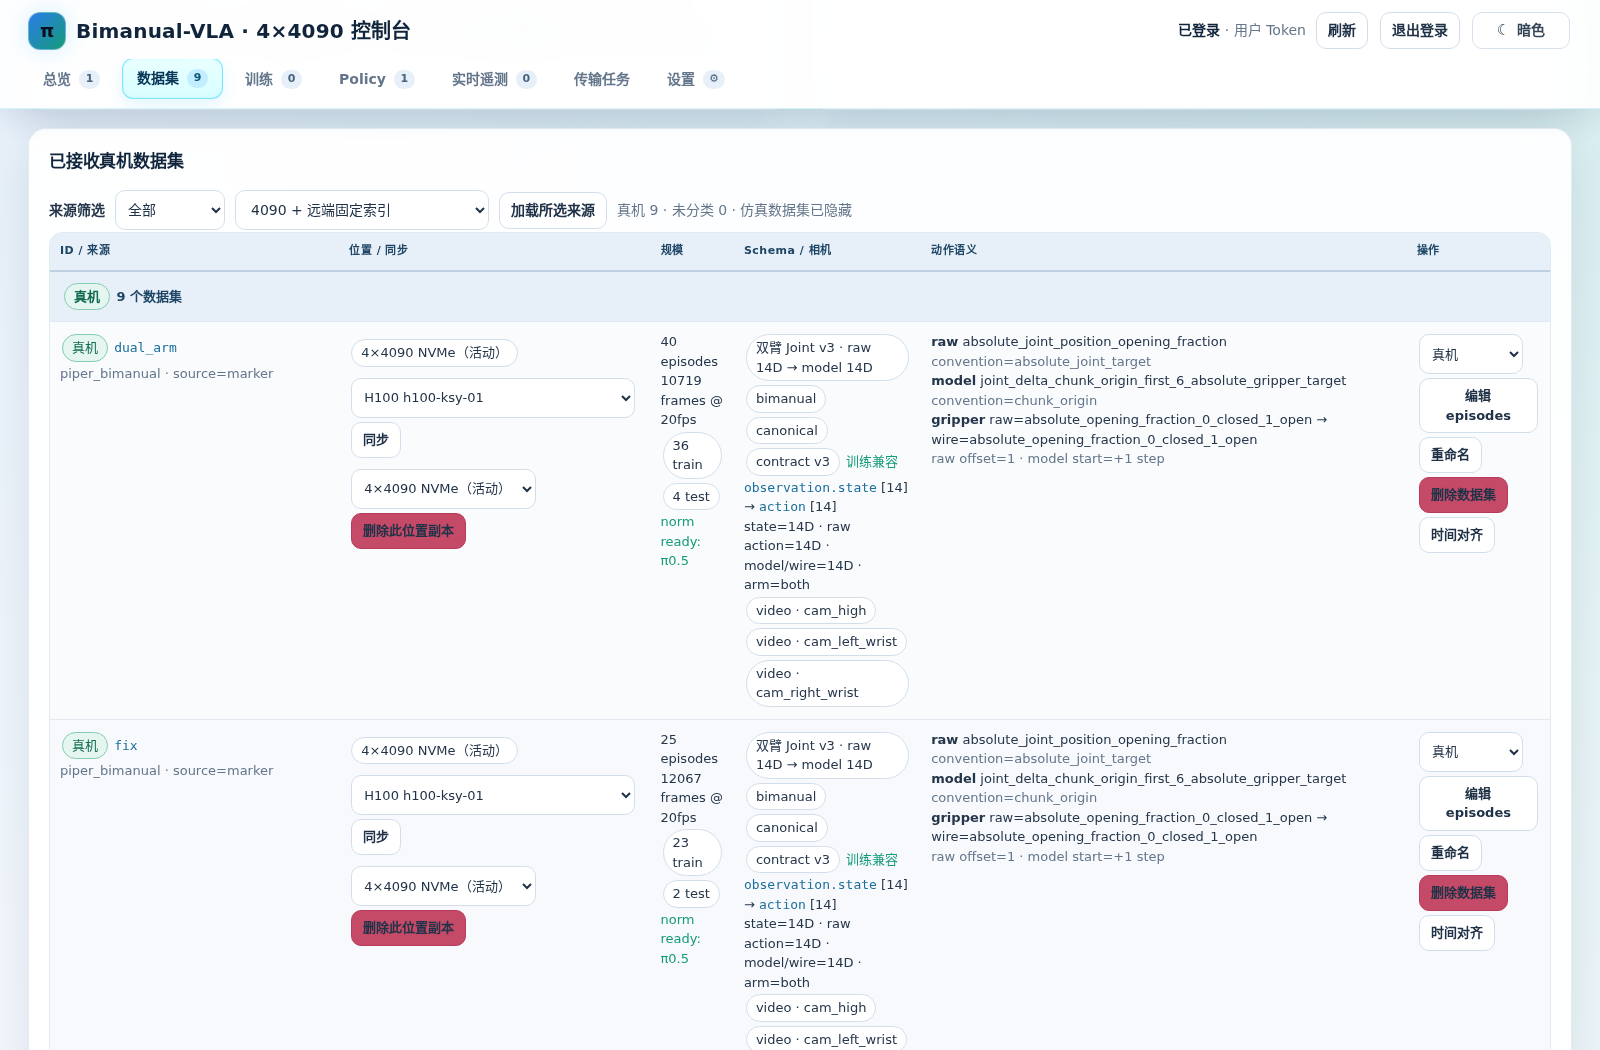
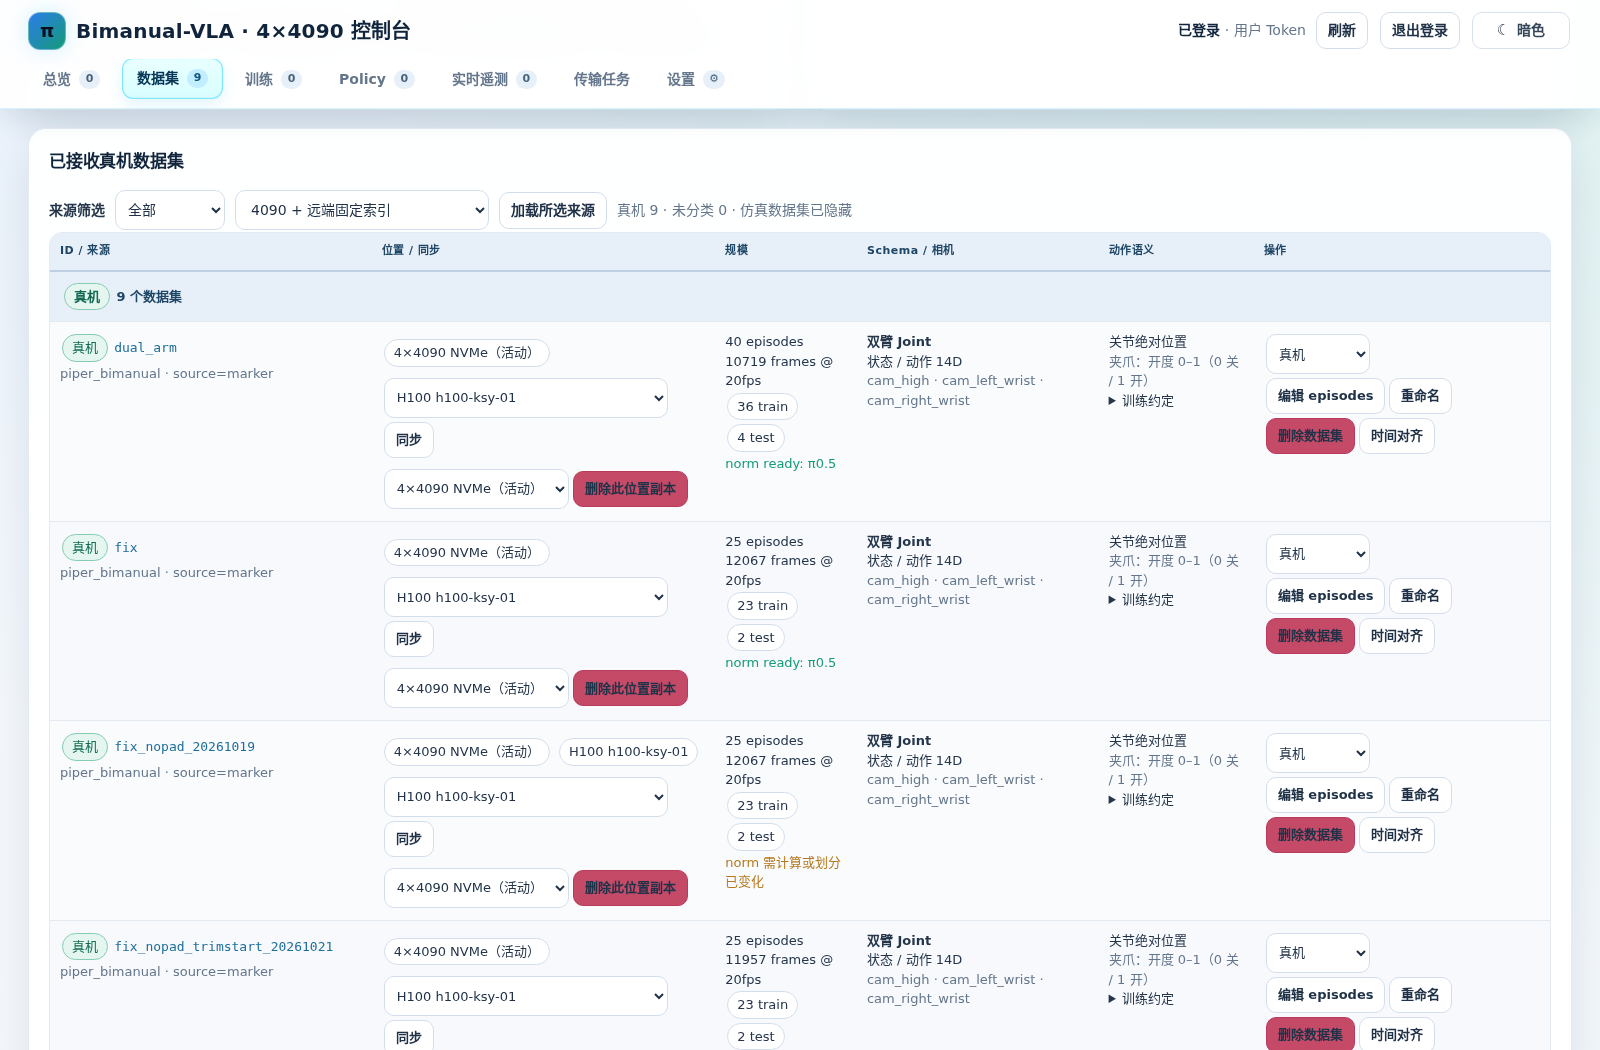
Simplify dataset schema and action summaries in Dashboard
Show dataset state/action dimensions once, keep legacy and validation warnings visible, and move model conversion details into the training disclosure. EEF datasets remain 20D; existing checkpoint model actions remain 14D. Refresh screenshots from the live Dashboard.

diff --git a/server_4090/templates/index.html b/server_4090/templates/index.html
@@ -2207,6 +2207,56 @@ async function syncDatasetTo(datasetId, selectId, source) {
   }
 }
 
+function datasetSchemaLabel(d) {
+  const arm = d.arm_mode === 'bimanual' ? '双臂' : d.arm_mode === 'single' ? (d.arm_side === 'left' ? '左臂' : '右臂') : '';
+  const schema = d.schema === 'delivery' ? 'EEF' : d.schema === 'joint' ? 'Joint' : (d.schema || '未知格式');
+  return `${arm} ${schema}`.trim();
+}
+
+function datasetSchemaCell(d) {
+  const state = d.state_dim ?? d.state_shape?.at(-1);
+  const action = d.raw_action_dim ?? d.action_shape?.at(-1);
+  const dimensions = state != null && state === action ? `状态 / 动作 ${state}D` : `状态 ${state ?? '?'}D · 动作 ${action ?? '?'}D`;
+  const warnings = [];
+  if (d.contract_version != null && Number(d.contract_version) !== 3) warnings.push(`旧版 v${d.contract_version}`);
+  if (d.dataset_layout && d.dataset_layout !== 'canonical') warnings.push(d.dataset_layout === 'legacy' ? '旧字段布局' : '未知字段布局');
+  if (!d.training_supported) warnings.push('仅管理 / 预览');
+  const errors = [...new Set([d.contract_error, d.training_error].filter(Boolean))];
+  const cameras = (d.media || []).map(m => esc(cameraDisplayName(m.key, d.arm_side))).join(' · ');
+  return `<strong>${esc(datasetSchemaLabel(d))}</strong><br>${esc(dimensions)}${warnings.length ? `<br><span class="warn">${warnings.map(esc).join(' · ')}</span>` : ''}${errors.map(error => `<br><span class="bad">${esc(error)}</span>`).join('')}<br><span class="muted">${cameras || '无相机媒体'}</span>`;
+}
+
+function datasetActionLabel(d, model = false) {
+  const convention = model ? d.model_action_convention : d.raw_action_convention;
+  if (convention === 'absolute_eef_target') return '末端绝对位姿';
+  if (convention === 'absolute' || convention === 'absolute_joint' || convention === 'absolute_joint_position' || convention === 'absolute_joint_target') return '关节绝对位置';
+  if (convention === 'chunk_origin') return d.schema === 'joint' ? '相对观测帧的关节增量' : '相对观测帧的位姿增量';
+  if (convention === 'step') return '逐步位姿增量';
+  return (model ? d.model_action_semantics : d.raw_action_semantics) || '未标注';
+}
+
+function datasetGripperLabel(value) {
+  if (value === 'absolute_opening_fraction_0_closed_1_open') return '开度 0–1（0 关 / 1 开）';
+  if (value === 'absolute_closed_fraction_0_open_1_closed') return '闭合度 0–1（0 开 / 1 关）';
+  if (['absolute_opening_m', 'absolute_opening_metres', 'opening_m'].includes(value)) return '开度（米）';
+  return value || '未标注';
+}
+
+function datasetActionCell(d) {
+  const rawGripper = datasetGripperLabel(d.raw_gripper_semantics);
+  const wireGripper = datasetGripperLabel(d.wire_gripper_semantics);
+  const rotationNote = d.schema === 'delivery' && !d.legacy_delivery_v2 && d.raw_action_dim !== d.model_action_dim
+    ? '<br>训练时每臂旋转由 6D 转为 3D 旋转向量。' : '';
+  return `${esc(datasetActionLabel(d))}<br><span class="muted">夹爪：${esc(rawGripper)}</span>
+    <details><summary>训练约定</summary>
+      <div class="muted">模型动作：${esc(d.model_action_dim ?? '?')}D · ${esc(datasetActionLabel(d, true))}${rotationNote}
+      ${rawGripper !== wireGripper ? `<br>模型夹爪：${esc(wireGripper)}` : ''}
+      <br>数据动作偏移：${esc(d.action_offset ?? '?')} · 模型首步：+${esc(d.model_action_start_offset ?? '?')}
+      <br>字段：${esc(d.state_key || '?')} → ${esc(d.action_key || '?')}
+      <br>数据约定 v${esc(d.contract_version ?? '?')} · ${esc(d.dataset_layout || 'unknown')}</div>
+    </details>`;
+}
+
 function fillDatasets(items) {
   items = dashboardDatasets(items);
   const filter = document.getElementById('datasetOriginFilter').value || 'all';
@@ -2231,8 +2281,8 @@ function fillDatasets(items) {
           <td>${datasetOriginBadge(d.dataset_origin)} <code>${esc(d.id)}</code><br><span class="muted">${esc(d.robot_type)} · source=${esc(d.dataset_origin_source || '-')}</span>${d.remote_only ? '<br><span class="warn">远端清单项，本地未安装</span>' : ''}</td>
           <td>${renderDatasetLocations(d)}</td>
           <td>${esc(d.episodes)} episodes<br>${esc(d.frames)} frames @ ${esc(d.fps)}fps<br>${d.train_episodes == null ? '<span class="muted">尚未生成 train/test 划分</span>' : `<span class="pill">${esc(d.train_episodes)} train</span> <span class="pill">${esc(d.test_episodes)} test</span>`}<br>${(d.norm_model_variants || []).length ? `<span class="ok">norm ready: ${esc((d.norm_model_variants || []).map(modelVariantLabel).join(', '))}</span>` : '<span class="warn">norm 需计算或划分已变化</span>'}</td>
-          <td><span class="pill">${esc(d.schema_label || d.schema)}</span> <span class="pill">${esc(d.arm_mode || '-')}</span> <span class="pill">${esc(d.dataset_layout || '-')}</span> <span class="pill">contract v${esc(d.contract_version || '?')}</span> ${d.training_supported ? '<span class="ok">训练兼容</span>' : '<span class="warn">仅管理 / 预览</span>'}<br><code>${esc(d.state_key || 'state?')}</code> ${esc(JSON.stringify(d.state_shape))} → <code>${esc(d.action_key || 'action?')}</code> ${esc(JSON.stringify(d.action_shape))}<br>state=${esc(d.state_dim || '?')}D · raw action=${esc(d.raw_action_dim || '?')}D · model/wire=${esc(d.model_action_dim || '?')}D · arm=${esc(d.arm_side || '-')}<br>${d.contract_error ? `<span class="bad">${esc(d.contract_error)}</span><br>` : ''}${d.training_error ? `<span class="warn">${esc(d.training_error)}</span><br>` : ''}${(d.media || []).map(m => `<span class="pill">${esc(m.type)} · ${esc(cameraDisplayName(m.key, d.arm_side))}</span>`).join(' ') || '<span class="muted">无相机媒体</span>'}</td>
-          <td><strong>raw</strong> ${esc(d.raw_action_semantics || '-')}<br><span class="muted">convention=${esc(d.raw_action_convention || '-')}</span><br><strong>model</strong> ${esc(d.model_action_semantics || '-')}<br><span class="muted">convention=${esc(d.model_action_convention || '-')}</span><br><strong>gripper</strong> raw=${esc(d.raw_gripper_semantics || '-')} → wire=${esc(d.wire_gripper_semantics || '-')}<br><span class="muted">raw offset=${d.action_offset == null ? '-' : esc(d.action_offset)} · model start=+${esc(d.model_action_start_offset ?? 1)} step</span></td>
+          <td>${datasetSchemaCell(d)}</td>
+          <td>${datasetActionCell(d)}</td>
           <td>${(d.remote_only || d.read_only) ? `<span class="muted">${d.remote_only ? '远端数据集：先同步到 4×4090 后可编辑。' : '外部读取目录数据集：只读；如需编辑请先同步到存储目录。'}</span>` : `<select class="dataset-origin-select" onchange="setDatasetOrigin('${esc(d.id)}', this.value)">${datasetOriginOptions(d.dataset_origin)}</select><br><button class="inline secondary" onclick="openDatasetEditor('${esc(d.id)}')">编辑 episodes</button><button class="inline secondary" onclick="renameDataset('${esc(d.id)}')">重命名</button><button class="inline danger" onclick="deleteDataset('${esc(d.id)}')">删除数据集</button>`}${!d.remote_only ? `<button class="inline secondary" onclick="openDatasetTiming('${esc(d.id)}')">时间对齐</button>` : ''}</td>
         </tr>`);
     }
@@ -2244,7 +2294,7 @@ function fillDatasets(items) {
   const trainable = items.filter(d => d.training_supported);
   document.querySelectorAll('.dataset-select').forEach(select => {
     const old = select.value;
-    select.innerHTML = trainable.map(d => `<option value="${esc(d.id)}">[${esc(datasetOriginLabel(d.dataset_origin))}] ${esc(d.id)} · ${esc(d.arm_mode || '-')} · ${esc(d.schema_label || d.schema)}</option>`).join('') || '<option value="" disabled>没有兼容训练的数据集</option>';
+    select.innerHTML = trainable.map(d => `<option value="${esc(d.id)}">[${esc(datasetOriginLabel(d.dataset_origin))}] ${esc(d.id)} · ${esc(datasetSchemaLabel(d))}</option>`).join('') || '<option value="" disabled>没有兼容训练的数据集</option>';
     if (trainable.some(d => d.id === old)) select.value = old;
     syncArmSideForDatasetSelect(select);
   });
